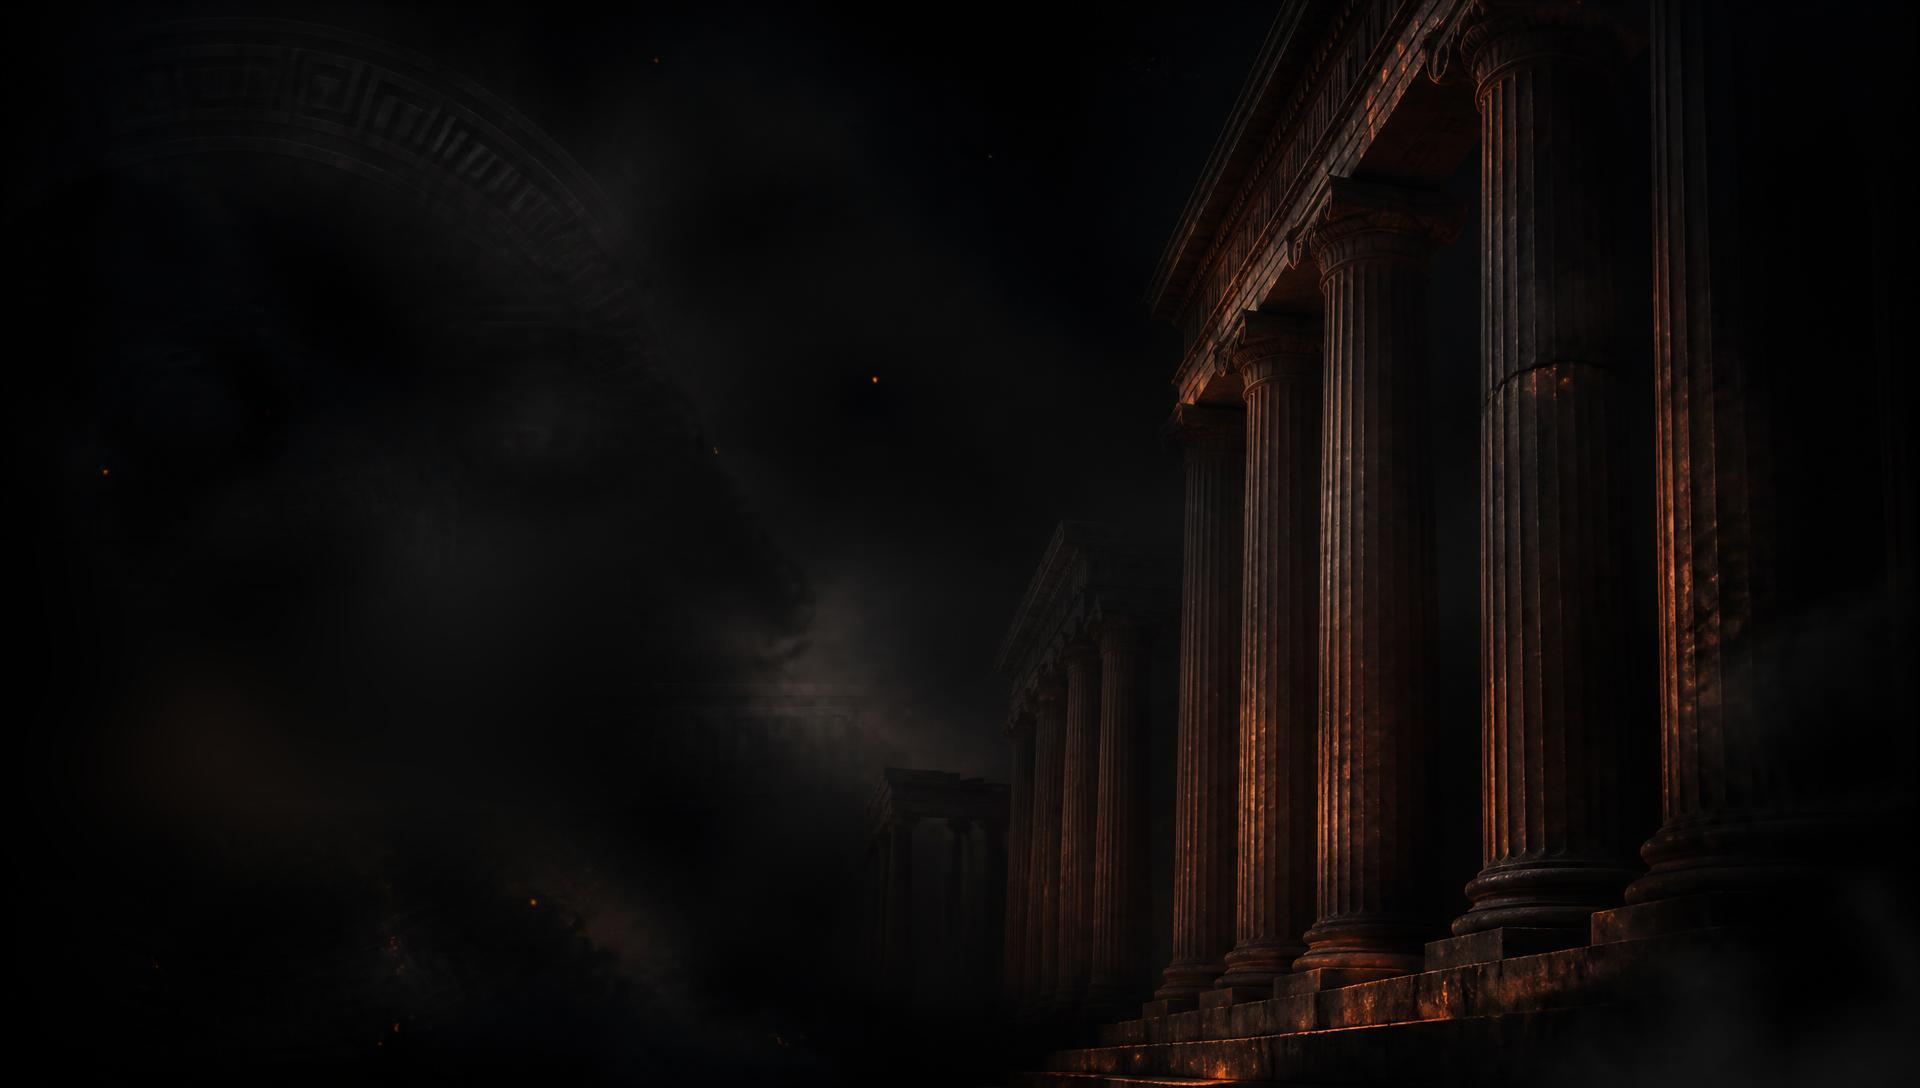
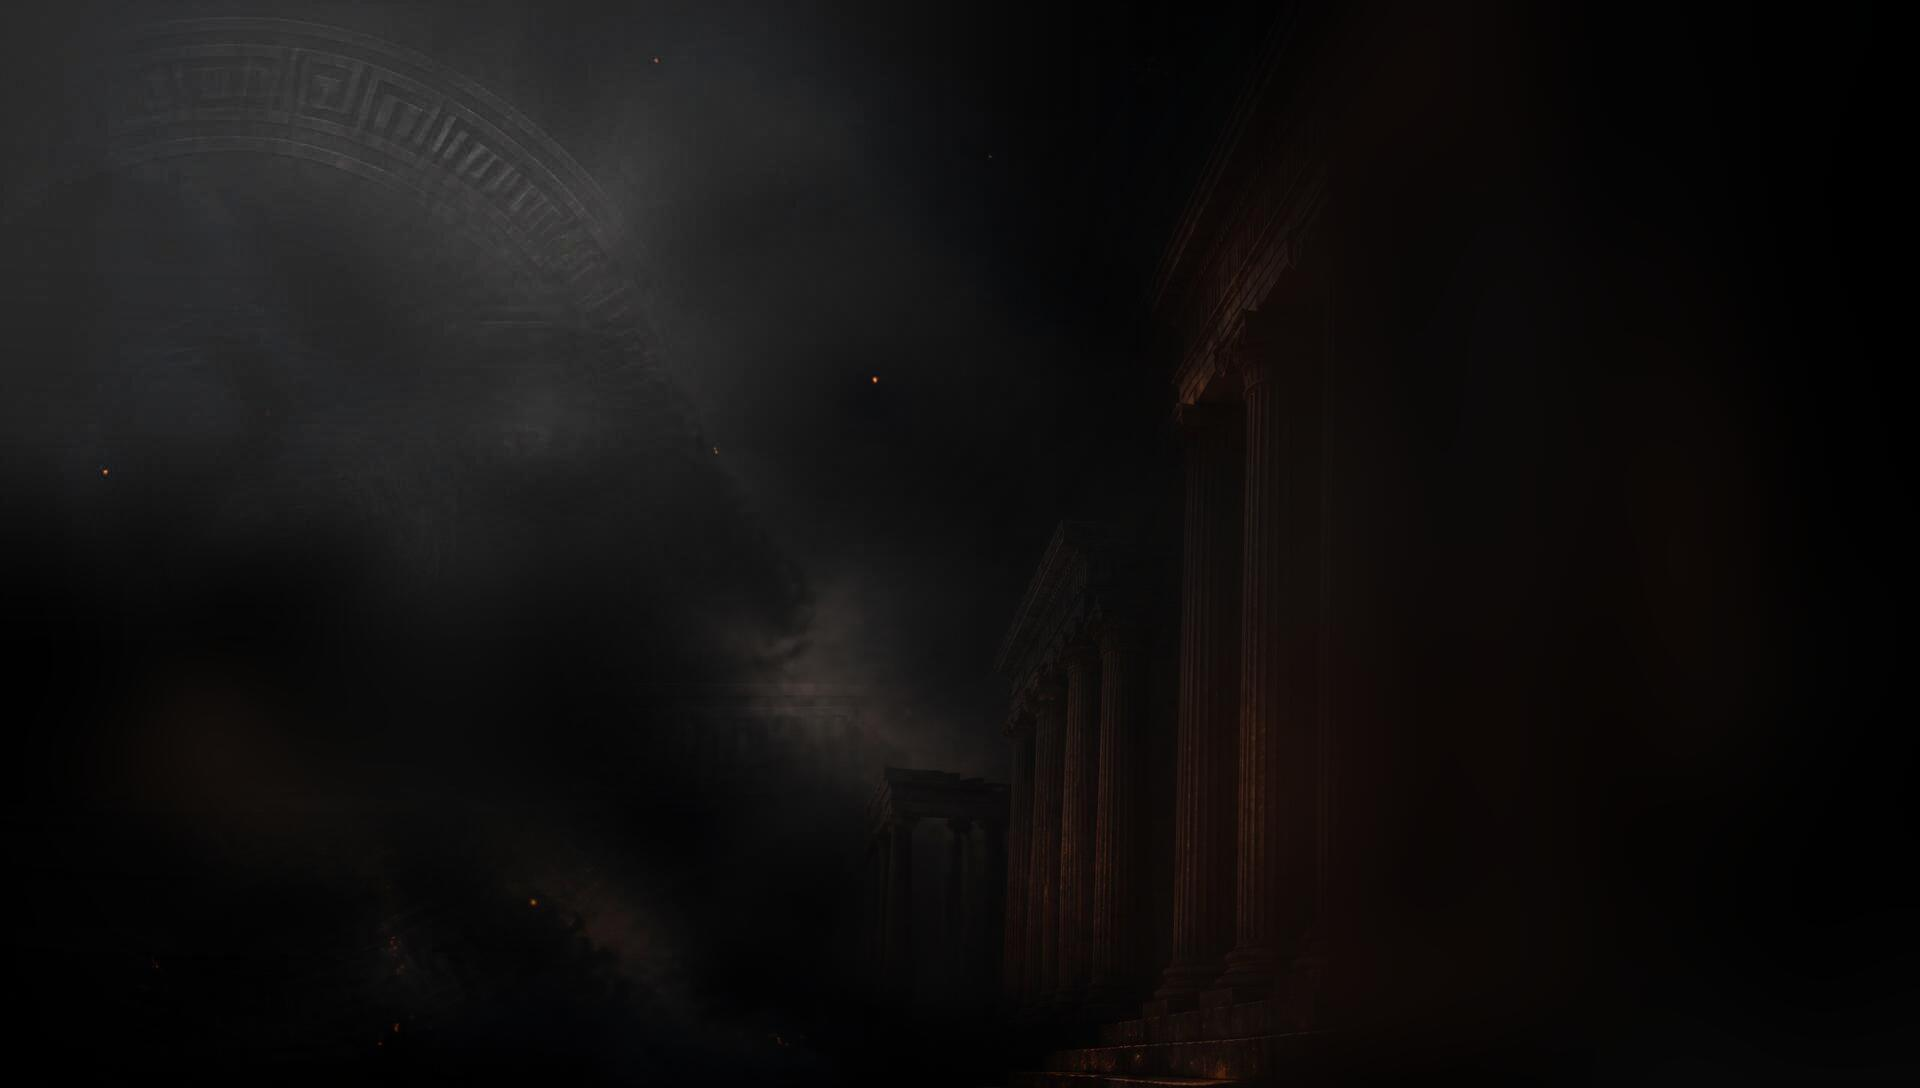
Slow down book-flip animation and enhance hero background clarity
- Roughly 1.5-1.6x all book-flip transition durations (halo, rays,
  stage, leaf, cover, spine, plinth) for a more deliberate, cinematic
  open rather than a quick snap.
- Rebuild temple-bg.jpg combining the earlier clarity pass (brighter,
  sharper coliseum arch; dominant right pillar dissolved into mist so
  it doesn't overpower) with the previously-applied stray-structure
  removal, so all three edits live in one consistent image.

Claude-Session: https://claude.ai/code/session_01RUb7zdgoXNpqXYmEVGDgcu

Changed region(s): [[0.0, 0.0, 0.4375, 0.4375], [0.5938, 0.0, 0.875, 1.0], [0.8438, 0.1875, 0.9062, 0.75]]

diff --git a/index.html b/index.html
@@ -150,19 +150,19 @@ a{color:inherit;text-decoration:none;}
 
 /* book */
 .book{position:relative;margin:0 auto;width:100%;max-width:520px;padding:0 8px;user-select:none;}
-.book-halo{position:absolute;left:0;right:0;top:-24px;bottom:0;z-index:-1;pointer-events:none;background:radial-gradient(60% 55% at 50% 45%, color-mix(in oklab, var(--tone) 30%, transparent), transparent 72%);opacity:.25;transition:opacity 1200ms var(--ease-temple);}
+.book-halo{position:absolute;left:0;right:0;top:-24px;bottom:0;z-index:-1;pointer-events:none;background:radial-gradient(60% 55% at 50% 45%, color-mix(in oklab, var(--tone) 30%, transparent), transparent 72%);opacity:.25;transition:opacity 1900ms var(--ease-temple);}
 .book.in-view .book-halo{opacity:1;}
-.book-rays{position:absolute;left:50%;top:50%;z-index:-1;height:130%;width:130%;border-radius:9999px;pointer-events:none;filter:blur(2px);background:conic-gradient(from 0deg, transparent 0deg, color-mix(in oklab, var(--tone) 24%, transparent) 8deg, transparent 16deg, transparent 40deg);opacity:0;transform:translate(-50%,-50%) rotate(-14deg) scale(.85);transition:opacity 1400ms var(--ease-temple), transform 1800ms var(--ease-temple);}
+.book-rays{position:absolute;left:50%;top:50%;z-index:-1;height:130%;width:130%;border-radius:9999px;pointer-events:none;filter:blur(2px);background:conic-gradient(from 0deg, transparent 0deg, color-mix(in oklab, var(--tone) 24%, transparent) 8deg, transparent 16deg, transparent 40deg);opacity:0;transform:translate(-50%,-50%) rotate(-14deg) scale(.85);transition:opacity 2200ms var(--ease-temple), transform 2900ms var(--ease-temple);}
 .book.in-view .book-rays{opacity:.5;transform:translate(-50%,-50%) rotate(12deg) scale(1);}
 .book-stage-wrap{position:relative;perspective:1600px;perspective-origin:50% 42%;}
-.book-stage{position:relative;margin:0 auto;width:100%;aspect-ratio:3/2;transform-style:preserve-3d;transform:translateX(-22%) translateY(6px) rotateX(18deg) scale(.9);transition:transform 1500ms var(--ease-temple);}
+.book-stage{position:relative;margin:0 auto;width:100%;aspect-ratio:3/2;transform-style:preserve-3d;transform:translateX(-22%) translateY(6px) rotateX(18deg) scale(.9);transition:transform 2400ms var(--ease-temple);}
 .book.in-view .book-stage{transform:translateY(-6px) rotateX(8deg) rotateZ(-.5deg) scale(1);}
 .book-page-right{position:absolute;top:0;right:0;bottom:0;left:50%;overflow:hidden;border-radius:0 6px 6px 0;background:var(--marble-bg);box-shadow:inset 14px 0 24px -18px oklch(0.2 0.02 60 / 70%), 0 3px 8px -2px oklch(0.05 0.01 40 / 55%);border-top:3px solid oklch(0.98 0.01 90);}
-.book-leaf{position:absolute;top:0;right:0;bottom:0;left:50%;transform-style:preserve-3d;transform-origin:left center;transform:translateZ(-6px) rotateY(-2deg);transition:transform 1600ms var(--ease-temple) 90ms;}
+.book-leaf{position:absolute;top:0;right:0;bottom:0;left:50%;transform-style:preserve-3d;transform-origin:left center;transform:translateZ(-6px) rotateY(-2deg);transition:transform 2500ms var(--ease-temple) 140ms;}
 .book.in-view .book-leaf{transform:translateZ(-6px) rotateY(-168deg);}
 .book-leaf-face{position:absolute;inset:0;border-radius:0 6px 6px 0;background:var(--marble-bg);backface-visibility:hidden;-webkit-backface-visibility:hidden;box-shadow:inset 10px 0 20px -16px oklch(0.2 0.02 60 / 70%);}
 .book-leaf-face.back{border-radius:6px 0 0 6px;transform:rotateY(180deg);box-shadow:none;}
-.book-cover{position:absolute;top:0;right:0;bottom:0;left:50%;transform-style:preserve-3d;transform-origin:left center;transform:translateZ(16px) rotateY(0deg);transition:transform 1700ms var(--ease-temple);}
+.book-cover{position:absolute;top:0;right:0;bottom:0;left:50%;transform-style:preserve-3d;transform-origin:left center;transform:translateZ(16px) rotateY(0deg);transition:transform 2700ms var(--ease-temple);}
 .book.in-view .book-cover{transform:translateZ(16px) rotateY(-174deg);}
 .book-cover-front{position:absolute;inset:0;overflow:hidden;border-radius:2px 6px 6px 2px;backface-visibility:hidden;-webkit-backface-visibility:hidden;background:linear-gradient(150deg, color-mix(in oklab, var(--tone) 40%, oklch(0.15 0.02 45)), oklch(0.11 0.014 45));box-shadow:inset 0 0 0 1px color-mix(in oklab, var(--tone) 55%, transparent), inset 0 0 60px -20px color-mix(in oklab, var(--tone) 80%, transparent), 0 40px 70px -34px oklch(0.02 0 0 / 95%);}
 .book-cover-front::before{content:"";position:absolute;left:0;top:0;height:100%;width:12px;background:linear-gradient(90deg, oklch(0.09 0.01 45), transparent);}
@@ -200,9 +200,9 @@ a{color:inherit;text-decoration:none;}
   .book-page-body ul li{font-size:0.875rem;}
   .book-page-body .credit p{font-size:1rem;}
 }
-.book-spine{position:absolute;top:0;bottom:0;left:50%;width:24px;transform:translateX(-50%);pointer-events:none;background:linear-gradient(90deg, transparent, oklch(0.15 0.02 55 / 45%), transparent);opacity:0;transition:opacity 900ms var(--ease-temple) 700ms;}
+.book-spine{position:absolute;top:0;bottom:0;left:50%;width:24px;transform:translateX(-50%);pointer-events:none;background:linear-gradient(90deg, transparent, oklch(0.15 0.02 55 / 45%), transparent);opacity:0;transition:opacity 1400ms var(--ease-temple) 1100ms;}
 .book.in-view .book-spine{opacity:1;}
-.book-plinth{margin:12px auto 0;height:12px;width:75%;border-radius:4px;background:linear-gradient(180deg, oklch(0.4 0.02 60), oklch(0.22 0.015 55));box-shadow:0 26px 40px -26px oklch(0.02 0 0 / 90%);transform:scaleX(.82);transition:transform 1200ms var(--ease-temple);}
+.book-plinth{margin:12px auto 0;height:12px;width:75%;border-radius:4px;background:linear-gradient(180deg, oklch(0.4 0.02 60), oklch(0.22 0.015 55));box-shadow:0 26px 40px -26px oklch(0.02 0 0 / 90%);transform:scaleX(.82);transition:transform 1900ms var(--ease-temple);}
 .book.in-view .book-plinth{transform:scaleX(1);}
 
 /* proof */
